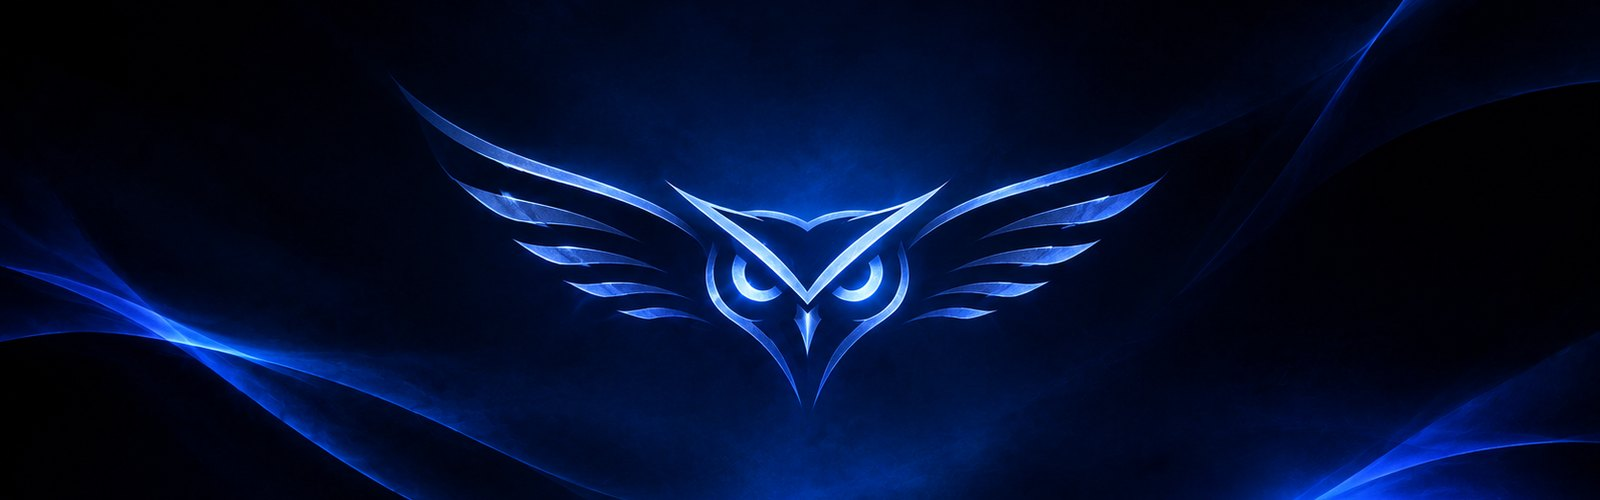
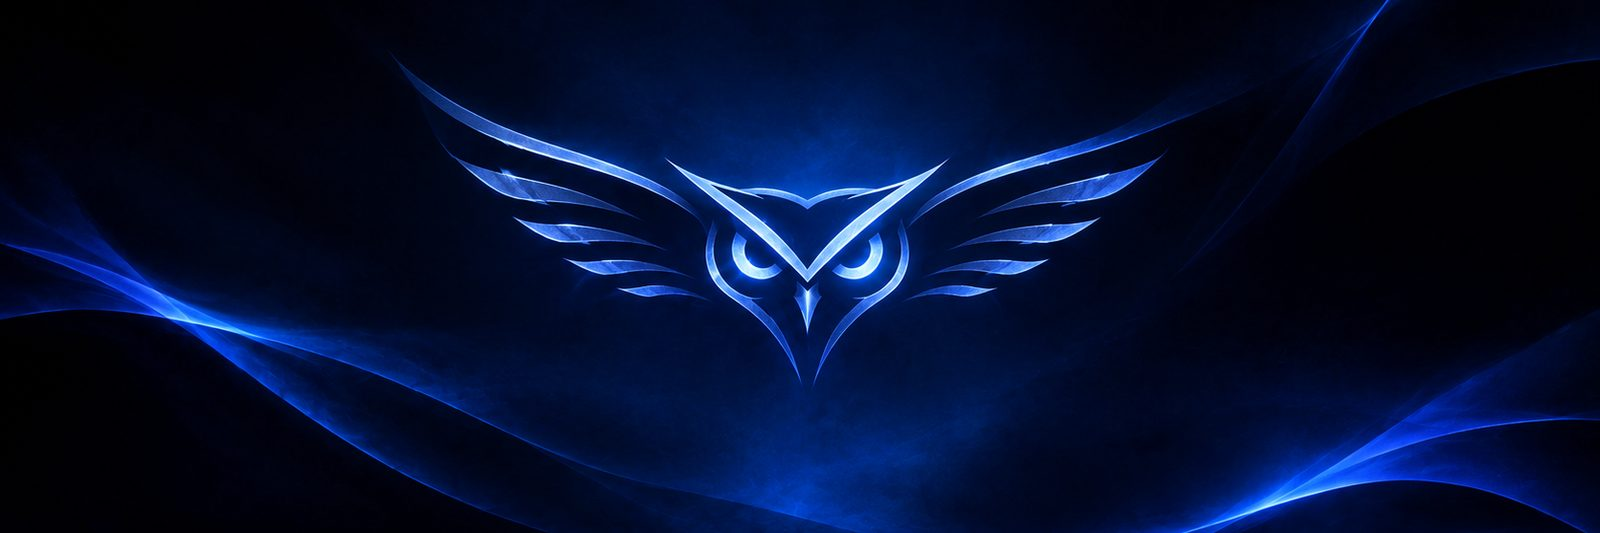
Update README: white Guardian Owl, three modes (Daily, Gaming, Cyber), mode transitions, safe switching
New logo, banner, mode images and screenshots from the current development
build (tested in a virtual machine; arrives with the next build).

diff --git a/README.md b/README.md
@@ -1,17 +1,17 @@
 <div align="center">
 
-<img src="assets/banner.jpg" alt="AEGIS OS — Guardian Owl emblem in AEGIS Blue" width="100%">
+<img src="assets/banner.jpg" alt="AEGIS OS — the white Guardian Owl in AEGIS Blue" width="100%">
 
 <br>
 
 <picture>
   <source media="(prefers-color-scheme: dark)" srcset="assets/logo-white.png">
-  <img src="assets/logo-navy.png" alt="AEGIS OS Guardian Owl" width="220">
+  <img src="assets/logo-navy.png" alt="AEGIS OS Guardian Owl" width="260">
 </picture>
 
 # AEGIS OS
 
-### Secure • Private • Independent
+### Beyond the ordinary.
 
 **A Debian-based Linux desktop for everyday work, privacy and cybersecurity learning.**
 
@@ -25,9 +25,9 @@
 
 ---
 
-AEGIS OS is a Linux operating system in development. It combines a clean, fast everyday desktop with a separate, clearly marked **Lab** for learning defensive security, plus a built-in **Security Center** that shows what your computer is doing, read straight from the system and never sent anywhere.
+AEGIS OS is a Linux operating system in development. One desktop, three modes: **Daily** for everyday work, **Gaming** for play and **Cyber** for learning defensive security, plus a built-in **Security Center** that shows what your computer is doing, read straight from the system and never sent anywhere.
 
-![AEGIS OS Everyday desktop](screenshots/01-everyday-desktop.png)
+![AEGIS OS Daily desktop](screenshots/01-daily-desktop.jpg)
 
 ## 🎯 Our main goal
 
@@ -35,36 +35,45 @@ AEGIS OS is a Linux operating system in development. It combines a clean, fast e
 
 Most people have to pick between a simple desktop that hides what it does and a security distribution that is hard to live with. AEGIS OS aims to remove that choice:
 
-- **For everyone:** a modern, fast, smooth Linux desktop for work, browsing and gaming, safe from the first boot with nothing to configure.
-- **For learners and defenders:** a built-in, clearly separated Security Lab for learning ethical, authorized cybersecurity, one click away.
+- **For everyone:** a modern, fast, smooth Linux desktop for work and browsing, safe from the first boot with nothing to configure.
+- **For players:** a Gaming mode with its own look and performance settings, without switching off any protection.
+- **For learners and defenders:** a built-in, clearly separated Cyber mode with the Security Lab for learning ethical, authorized cybersecurity, one click away.
 - **For your privacy:** a system that shows what it is doing with real data, makes no hidden network requests and asks before optional ones.
 - **For the long run:** a modular Debian base where every part updates on its own, so AEGIS can keep growing without breaking your computer.
 
 ## ✨ What's new
 
+> New features below are built and tested in a virtual machine. They arrive on the installable image with the next build.
+
 | | |
 |---|---|
-| 🦉 **New Guardian Owl identity** | A new winged owl emblem: **AEGIS Blue** for Everyday, **Lab purple** for the Security Lab. It already appears here; the desktop, boot menu and boot splash follow in an upcoming build. |
-| 📦 **Built from modules** | Every AEGIS part (apps, branding, desktop defaults, security settings) is now its own Debian package with its own version. A fix can arrive as one small update instead of a whole new system image. |
-| 🛡 **Security Center: all nine areas** | Overview, Security, Connectivity, Privacy, Encryption, Monitoring, Updates, Logs and Settings, each value marked fresh, stale or unavailable. |
-| 🌍 **3D Connectivity globe + one-click VPN** | Live connection arcs on an interactive Earth, 2D map and list views, a low-resource mode, offline country lookup, and a VPN button with an honest on / off / not-set-up state. |
-| 🔥 **Stronger defaults (in testing)** | Firewall switched on at boot, Firefox pre-fetching and background look-ups turned off, and a safer security-update card. These fixes are in the build currently being tested. |
-| 🏷 **First versioned preview** | *AEGIS OS 0.1.0-alpha1 preview*: the first build with a proper version number. |
+| 🦉 **New white Guardian Owl** | A clean, sharp owl emblem everywhere: boot screen, login, icons and wallpapers. At start-up the owl's eyes light up in AEGIS Blue. |
+| 🎮 **Three modes: Daily, Gaming, Cyber** | A new **Gaming** mode with its own green look and the performance power profile on mains power. **Daily** keeps your own look and power settings. **Cyber** is the Security Lab. |
+| 🎬 **Smooth mode transitions** | Every switch plays its own effect: Daily a soft fade, Gaming an energy burst, Cyber a scanline glitch. With reduced motion turned on it is a calm still image, and Esc skips it. |
+| 🧷 **Safe switching** | A switch is checked after it is applied and only then counts. If something fails on the way into Gaming or Cyber, AEGIS puts your previous mode back instead of leaving a half-changed desktop. |
+| 🖼 **Four new wallpapers** | AEGIS Blue, AEGIS Lab, AEGIS Monochrome and AEGIS Purple Scratch. |
+| 🔥 **Stronger defaults, now tested** | Firewall on at boot, Firefox privacy settings active, fewer background look-ups at first start, and a security-update card that a stray Enter key cannot trigger. |
+| 📦 **Built from modules** | Every AEGIS part is its own Debian package with its own version, so a fix can arrive as one small update instead of a whole new system image. |
 
-## 🌗 Two modes, one owl
+## 🌗 Three modes, one owl
 
-> **One click → hacking lab. One click → back to everyday and gaming.**
+> **One click → Gaming. One click → Cyber lab. One click → back to Daily.**
 >
-> Click **Lab** in the top bar and AEGIS turns into a security workstation: purple theme, Lab terminal and the Security Lab toolkit, ready for ethical hacking on systems you own or are authorized to test.
-> Click **Everyday** and it is a clean, simple desktop again, with the Lab tools tucked away, ready for daily work, browsing and gaming.
-> No reboot, no logout, no password, and nothing running in the background.
+> No reboot, no logout and no password. Firewall, AppArmor and security updates stay exactly the same in every mode.
 
 <table>
 <tr>
-<td align="center" width="50%"><img src="assets/mode-everyday.jpg" alt="Everyday — AEGIS Blue owl"><br><b>Everyday</b> · AEGIS Blue<br><sub>Daily work, browsing and gaming</sub></td>
-<td align="center" width="50%"><img src="assets/mode-lab.jpg" alt="Lab — purple owl"><br><b>Security Lab</b> · Lab purple<br><sub>Authorized, defensive security learning</sub></td>
+<td align="center" width="33%"><img src="assets/mode-daily.jpg" alt="Daily — AEGIS Blue owl"><br><b>Daily</b> · AEGIS Blue<br><sub>Work, browsing, everyday life</sub></td>
+<td align="center" width="33%"><img src="assets/mode-gaming.jpg" alt="Gaming — monochrome owl"><br><b>Gaming</b> · neon green<br><sub>Performance profile, quiet notifications while you play</sub></td>
+<td align="center" width="33%"><img src="assets/mode-cyber.jpg" alt="Cyber — purple owl"><br><b>Cyber</b> · Lab purple<br><sub>Authorized, defensive security learning</sub></td>
 </tr>
 </table>
+
+### Mode transitions
+
+Each mode has its own transition, from simple to intense: a soft **Daily** fade, a **Gaming** energy burst and a **Cyber** glitch. The effect covers the screen while the desktop changes behind it, then reveals the new mode.
+
+![Daily, Gaming and Cyber transitions](screenshots/13-mode-transitions.jpg)
 
 ## 🔑 Highlights
 
@@ -73,22 +82,27 @@ Most people have to pick between a simple desktop that hides what it does and a 
 | 🛡 **AEGIS Security Center** | Nine areas in one place. Every value is read from the system, never guessed and never sent anywhere. |
 | 🌍 **Live Connectivity globe** | See where your connections go. Country lookup runs offline; your own location is only looked up if you agree. |
 | 🔐 **One-click VPN** | Turn your own configured VPN on or off from Connectivity. |
+| 🎮 **Gaming mode** | Performance power profile on mains power, notifications paused while a game runs, and your normal settings back when you leave. |
 | 🧪 **AEGIS Security Lab** | Curated, documented tools from Debian (Wireshark, tcpdump, Nmap, mtr, iperf3, Lynis, The Sleuth Kit, GDB). Each one shows its source, allowed use, required rights and guided first steps. |
 | 🕶 **Privacy Session** | A private Firefox that lives only in memory, Tor Browser through Debian's signed launcher, a temporary folder in RAM and one-click cleanup. |
 | 🔔 **Security updates you can't miss** | Security fixes get a clear AEGIS card with *Update now* or *Later*. Checks pause on metered connections. |
 | 🧱 **Hardened by default** | Firewall on, AppArmor, kernel hardening, computer name not broadcast, local discovery off, KDE Connect removed, no telemetry. |
 | 🧰 **Recovery and drivers** | Documented fixes, a privacy-safe support report and guided NVIDIA driver installation. |
-| ♿ **Accessible** | High-contrast colour scheme, a reduced-motion boot option and keyboard-friendly apps. |
+| ♿ **Accessible** | High-contrast colour scheme, reduced motion for the boot screen and mode transitions, contrast-checked colours in every mode, and keyboard-friendly apps. |
 
 ## 🖼 Screenshots
 
-> Real screenshots of AEGIS OS development builds running in a virtual machine, not mock-ups. They still show the **previous** owl emblem; the new identity arrives in an upcoming build.
+> Real screenshots of AEGIS OS development builds running in a virtual machine, not mock-ups. Some app screenshots still show the previous emblem.
 
-### Everyday and Lab
+### Daily, Gaming and Cyber
 
-| Everyday Mode | Lab Mode |
-|:---:|:---:|
-| ![Everyday Mode](screenshots/01-everyday-desktop.png) | ![Lab Mode](screenshots/02-lab-desktop.png) |
+| Daily | Gaming | Cyber |
+|:---:|:---:|:---:|
+| ![Daily mode](screenshots/01-daily-desktop.jpg) | ![Gaming mode](screenshots/10-gaming-desktop.jpg) | ![Cyber mode](screenshots/02-cyber-desktop.jpg) |
+
+AEGIS apps follow the mode, here Security Center in Gaming mode:
+
+![Security Center in Gaming mode](screenshots/11-gaming-security-center.jpg)
 
 ### AEGIS Security Center
 
@@ -108,9 +122,13 @@ Most people have to pick between a simple desktop that hides what it does and a 
 
 ### From power-on to desktop
 
-| Boot menu | Login |
+| Boot screen | Login |
 |:---:|:---:|
-| ![Boot menu](screenshots/07-boot-menu.png) | ![Login screen](screenshots/06-login.png) |
+| ![Boot screen: the owl's eyes light up](screenshots/12-boot-splash.jpg) | ![Login screen](screenshots/06-login.jpg) |
+
+| Boot menu (previous emblem) |
+|:---:|
+| ![Boot menu](screenshots/07-boot-menu.png) |
 
 ## 🔭 Future vision
 
@@ -118,14 +136,17 @@ Most people have to pick between a simple desktop that hides what it does and a 
 
 ```mermaid
 flowchart LR
-    A["Now<br/>0.1.0-alpha1 preview"] --> B["Next<br/>new branding<br/>safe updates"]
+    A["Now<br/>0.1.0-alpha1 preview"] --> B["Next<br/>three modes · new owl<br/>Game Hub · Cyber labs"]
     B --> C["1.0<br/>installer · Windows apps<br/>signed updates"]
     C --> D["Beyond 1.0<br/>dashboard desktop<br/>ethical AI assistant<br/>AEGIS V2"]
 ```
 
 **Next**
 
-- **New Guardian Owl everywhere:** icons, wallpapers, login, boot menu and boot splash in AEGIS Blue and Lab purple.
+- **Next build:** the white owl, three modes with transitions and safe switching on the installable image.
+- **Mode menu:** choose Daily, Gaming or Cyber directly from the top bar.
+- **Gaming:** hardware-aware performance settings and an optional full-screen Game Hub. Game launchers stay your choice and are never installed without asking.
+- **Cyber Virtual Labs:** optional practice machines, offline and isolated by default, with beginner templates and advanced management.
 - **Updates done properly:** module-aware updates with history, health checks, and rollback if something goes wrong.
 
 **On the way to 1.0**
